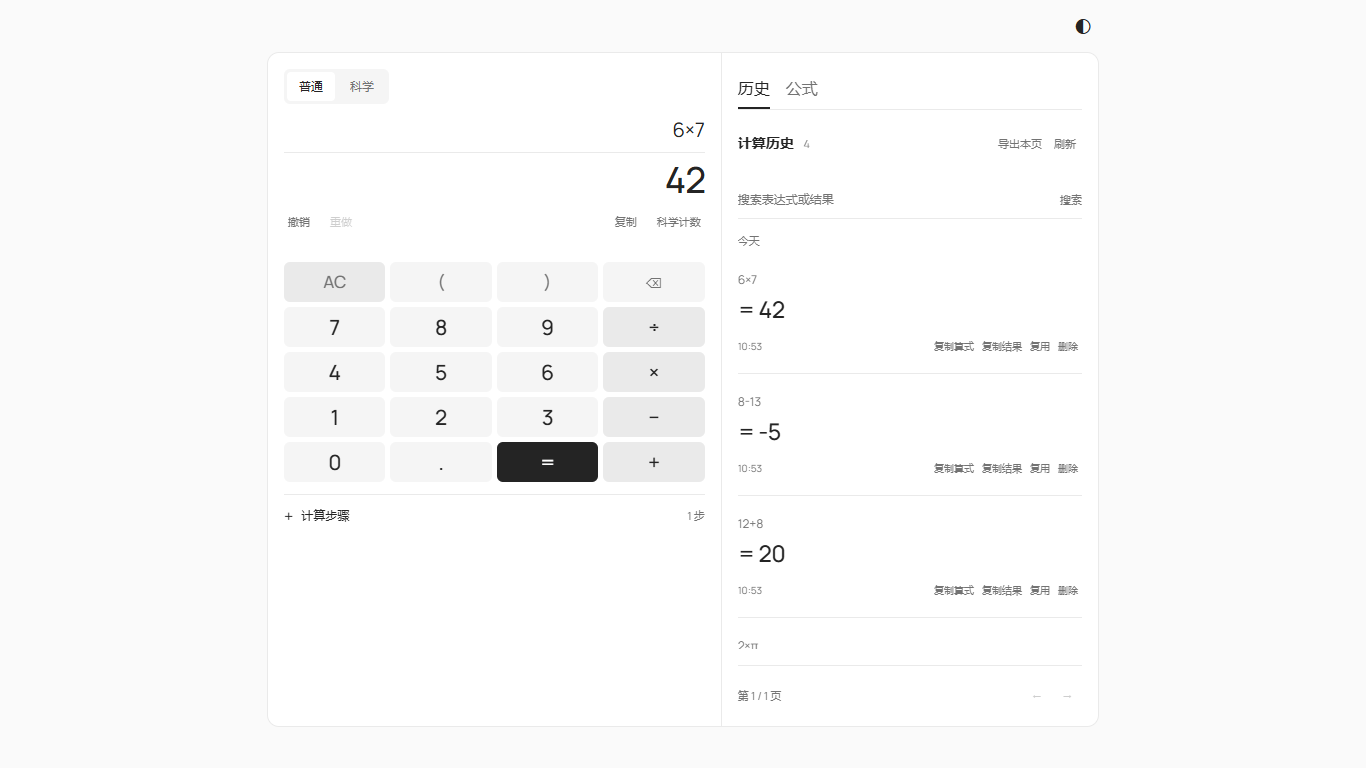
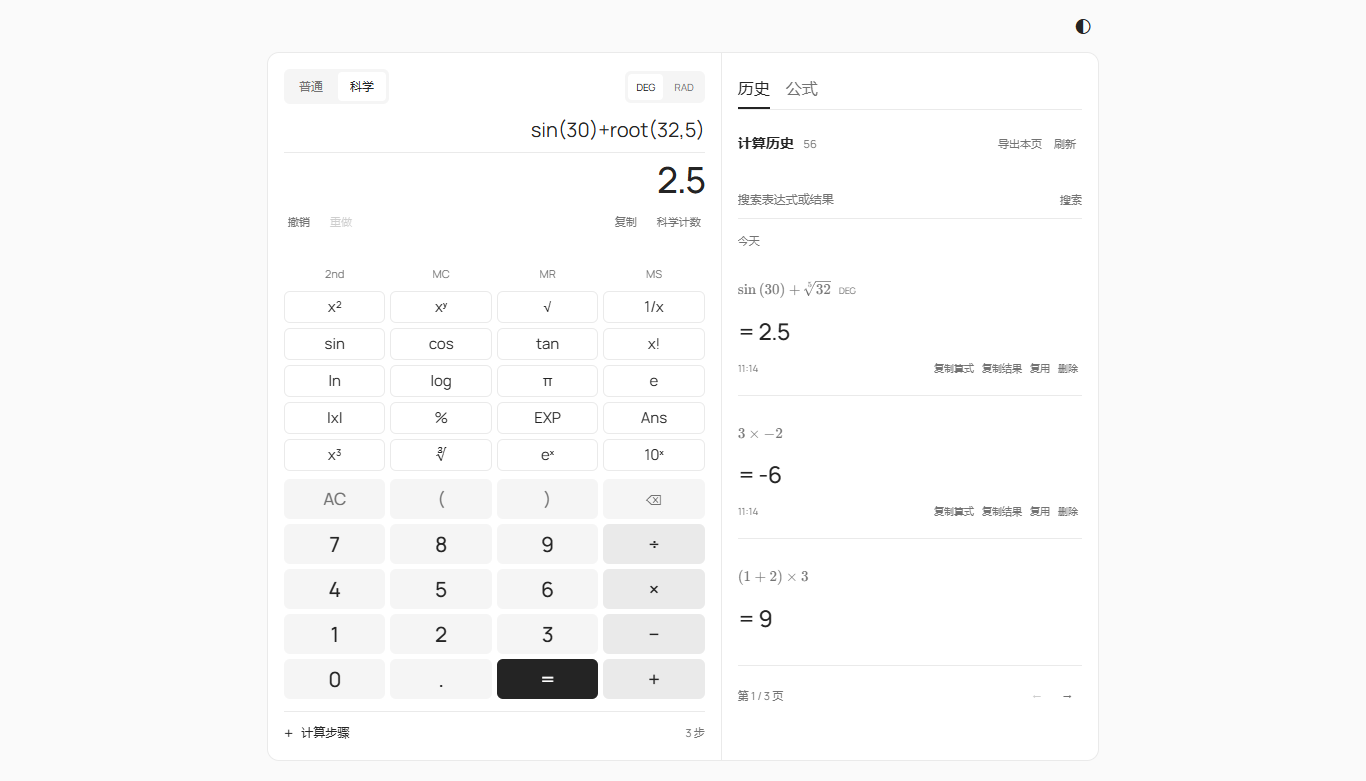
Typeset roots powers and fractions in calculation history

diff --git a/src/main.js b/src/main.js
@@ -1,5 +1,6 @@
 import { initFormulaLibrary } from './formula-library.js';
 import { renderSteps } from './steps-view.js';
+import { renderFormula } from './formula-view.js';
 import '@fontsource-variable/manrope';
 import '@fontsource-variable/jetbrains-mono';
 import './style.css';
@@ -396,7 +397,7 @@ function renderRecord(record) {
   article.className = 'history-record';
   const expression = document.createElement('p');
   expression.className = 'record-expression';
-  expression.textContent = historyExpression(record.expression);
+  renderFormula(expression, record.expression);
   if (/\b(sin|cos|tan|asin|acos|atan)\s*\(/.test(record.expression)) {
     const unit = document.createElement('span');
     unit.className = 'angle-label';
@@ -436,7 +437,12 @@ function renderRecord(record) {
   remove.setAttribute('aria-label', `删除记录 ${historyExpression(record.expression)}`);
   remove.addEventListener('click', () => {
     state.deleteId = record.id;
-    byId('delete-expression').textContent = `${historyExpression(record.expression)} = ${record.result}`;
+    const formula = document.createElement('span');
+    renderFormula(formula, record.expression);
+    byId('delete-expression').replaceChildren(
+      formula,
+      document.createTextNode(` = ${record.result}`),
+    );
     byId('delete-dialog').showModal();
   });
   for (const [label, value] of [

diff --git a/src/style.css b/src/style.css
@@ -381,9 +381,30 @@ kbd {
 }
 .record-expression {
   margin: 0 0 5px;
-  font-size: 12px;
+  font-size: 15px;
   color: var(--muted);
-  overflow-wrap: anywhere;
+  max-width: 100%;
+  overflow-x: auto;
+  padding: 5px 0 8px;
+  line-height: 1.7;
+}
+.record-expression .katex {
+  font-size: 1em;
+  display: inline-block;
+  white-space: nowrap;
+}
+.record-expression:focus-visible {
+  outline: 1px solid var(--muted);
+  outline-offset: 2px;
+}
+#delete-expression {
+  max-width: 100%;
+  overflow-x: auto;
+  padding: 5px 0 8px;
+  line-height: 1.8;
+}
+#delete-expression .katex {
+  white-space: nowrap;
 }
 .record-result {
   margin: 0;

diff --git a/src/formula-view.js b/src/formula-view.js
@@ -29,5 +29,8 @@ export function renderFormula(container, expression) {
       // An unfinished edit remains readable and never blocks saving or calculation.
     }
   }
-  container.textContent = expression.replaceAll('*', '×').replaceAll('/', '÷');
+  container.textContent = expression
+    .replace(/\bpi\b/g, 'π')
+    .replaceAll('*', '×')
+    .replaceAll('/', '÷');
 }

diff --git a/README.en.md b/README.en.md
@@ -118,4 +118,4 @@ The desktop layout targets 1366×768. Main mobile controls are at least 44px, wi
 
 Additional documents: [Verification (Chinese)](docs/VERIFICATION.md) · [Design](DESIGN.md) · [Architecture and feature diagrams](docs/OVERVIEW.md)
 
-The expression field displays multiplication and division as `×` and `÷`. Typed or pasted `*` and `/` are converted automatically, including history reuse, function insertion, and undo/redo. The backend accepts both forms. History, deletion confirmation, and history reuse also display `π`, `×`, and `÷`. Copying and CSV export retain the original expression. After the update on 2026-10-05, all 20 frontend tests, syntax checks, and the build passed. The project preview screenshot has been refreshed.
+The expression field displays multiplication and division as `×` and `÷`. Typed or pasted `*` and `/` are converted automatically, including history reuse, function insertion, and undo/redo. The backend accepts both forms. History and deletion dialogs use mathematical typesetting for π, superscripts, roots, nth roots, and fractions. History reuse restores an editable expression. Copying and CSV export retain the original expression. After the update on 2026-10-05, all 20 frontend tests, syntax checks, and the build passed. The project preview screenshot has been refreshed.

diff --git a/README.md b/README.md
@@ -118,4 +118,4 @@ npm run preview -- --port 5173
 
 补充文档：[功能与验证记录](docs/VERIFICATION.md) · [设计说明（英文）](DESIGN.md) · [结构与功能图（英文）](docs/OVERVIEW.md)
 
-输入框中的乘除运算统一显示为 `×`、`÷`；键盘输入或粘贴的 `*`、`/` 会自动转换。历史复用、函数插入及撤销重做保持相同显示。后端继续兼容两种写法。2026-10-05 历史显示进一步统一为 `π`、`×`、`÷`，删除确认与历史复用采用相同符号；复制及 CSV 导出保留原始表达式。更新后前端 20 项测试、语法检查和构建通过，项目预览截图已更新。
+输入框中的乘除运算统一显示为 `×`、`÷`；键盘输入或粘贴的 `*`、`/` 会自动转换。历史复用、函数插入及撤销重做保持相同显示。后端继续兼容两种写法。2026-10-05 历史列表和删除确认使用与公式库相同的数学排版，显示 π、上标、根号、多次方根和分式；历史复用填回可编辑的表达式；复制及 CSV 导出保留原始表达式。更新后前端 20 项测试、语法检查和构建通过，项目预览截图已更新。
